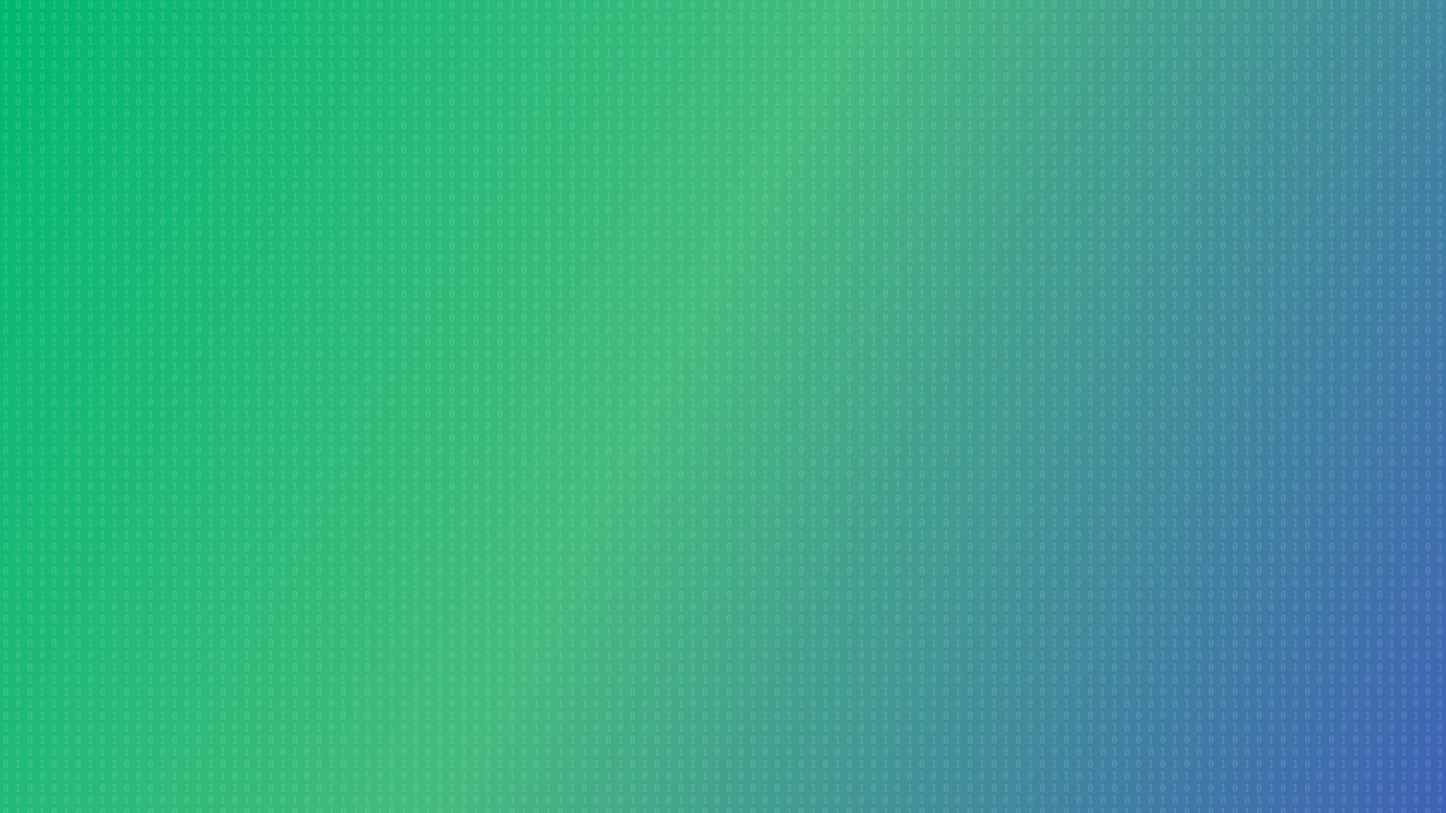
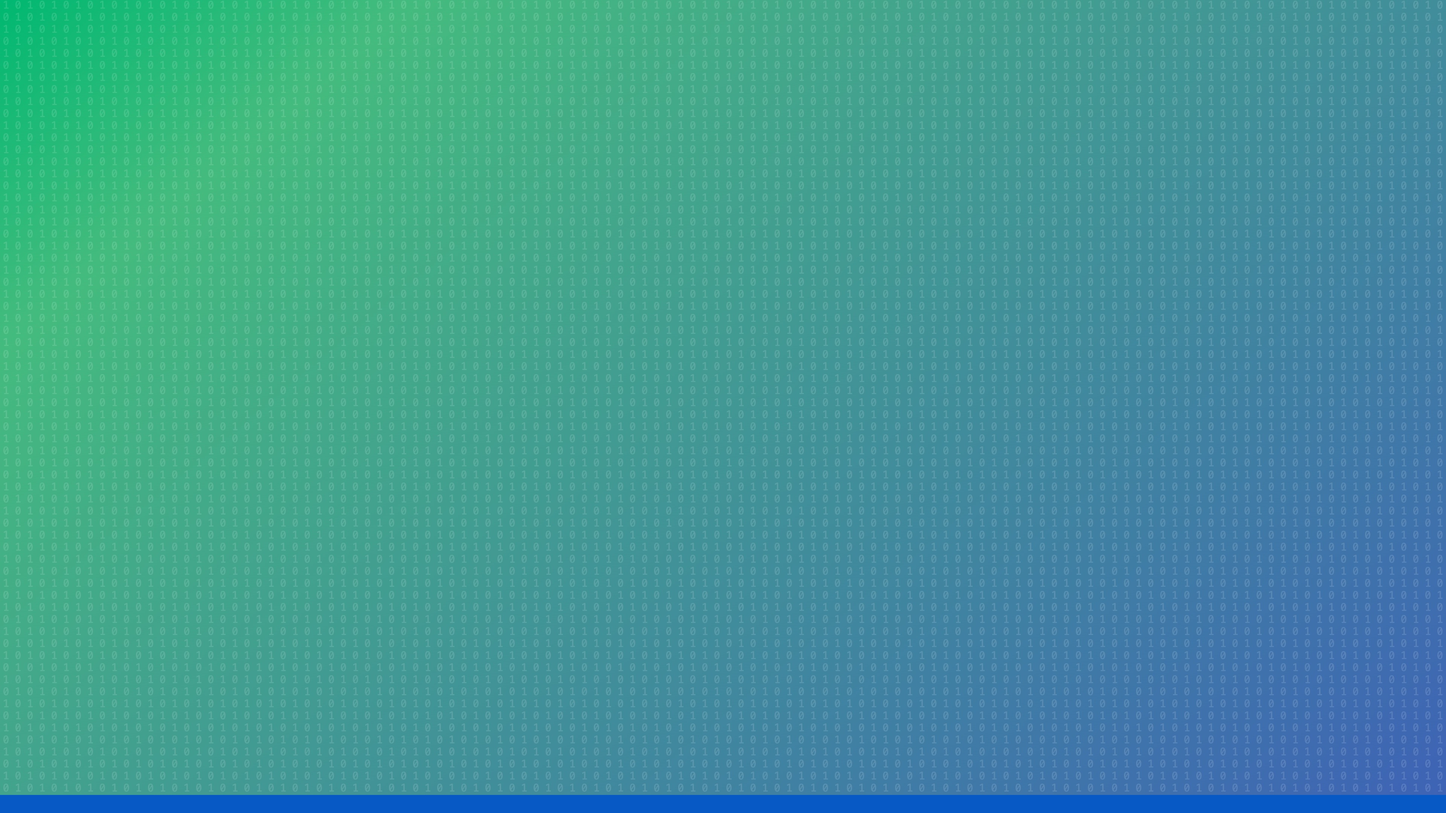
Every part places itself, and rm-stat can be dragged
The browser in the gallery hung off the left of the frame, and the cause is one
line that aged badly. It was positioned with style="left:16%; top:50%" — written
before rm-browser had x and y of its own. The part CENTRES on its point, so
left:16% put the centre of a window 68% wide at 16%, which puts most of it off
the edge. It uses x/y now, like rm-callout beside it, and lands centred.

rm-stat had no position at all. `::slotted(*) { position:absolute }` on the stage
means a part that does not place itself lands in the top-left corner, so the
gallery moved both of them by hand too. That also silently cost the Scenes panel
its sliders: those are generated from `static fields`, so a part that does not
declare x and y cannot be dragged, only hand-edited in markup — which is the
"stats need position sliders" report. Declaring them is what produces the
sliders; there was nothing to add in the panel.

The gallery's signatures were advertising attributes that no longer exist —
rm-browser still listed `image` and `src`, removed when the URL became the one
field that both names the site and loads it.

And a trap worth a permanent guard. These components render as one big template
literal, so a backtick inside a CSS comment CLOSES the string and everything
after it parses as code. I did it while writing rm-stat's centring comment, and
the symptom lands nowhere near the cause: "TYPETIMINGxy.anim is not a function"
[…]

diff --git a/lib/studio.html b/lib/studio.html
@@ -136,15 +136,8 @@
          the page is seeked to that instant, which is exactly what the renderer does
          frame by frame.
       </p>
-      <div class="note" data-region="main">
-         Animation is <em>seeked, not played</em>: every component is a paused CSS
-         animation positioned by one <code>--t</code> property, so frame N is
-         identical on every render. Copy <code>components/scene.html</code> to start
-         a new one.
-      </div>
       <div data-region="main">
-         <iframe data-el="gallery" class="tall-frame" src="/components/gallery.html"
-                 title="Component gallery"></iframe>
+         <iframe data-el="gallery" class="tall-frame" src="/components/gallery.html" title="Component gallery"></iframe>
          <pre class="cmd-note">node components/render-scene.mjs components/scene.html -o demo.mp4 --fps 30</pre>
       </div>
       <div data-region="footer">
@@ -235,14 +228,14 @@
          <div class="form-group">
             <label class="form-label" for="script-about">About</label>
             <textarea data-el="about" id="script-about" class="form-control" rows="3"
-                      placeholder="A URL, or a couple of sentences about what the video is for and who is watching."></textarea>
+               placeholder="A URL, or a couple of sentences about what the video is for and who is watching."></textarea>
             <div class="form-hint">The brief Claude drafts from. Type / for a directive.</div>
          </div>
 
          <div class="form-group">
             <label class="form-label" for="script-body">Script</label>
             <textarea data-el="body" id="script-body" class="form-control script-body" spellcheck="false"
-                      placeholder="Write the script…"></textarea>
+               placeholder="Write the script…"></textarea>
             <div data-el="count" class="form-hint"></div>
          </div>
 
@@ -273,8 +266,8 @@
          </div>
          <div class="form-group">
             <label class="form-label" for="script-seconds">Seconds</label>
-            <input data-el="seconds" id="script-seconds" class="form-control" type="number"
-                   value="30" min="10" max="180" step="5" />
+            <input data-el="seconds" id="script-seconds" class="form-control" type="number" value="30" min="10" max="180"
+               step="5" />
             <div class="form-hint">How long the draft should run. Drafting only.</div>
          </div>
 
@@ -300,7 +293,7 @@
          <iframe data-el="frame" class="scene-frame" title="Scene preview"></iframe>
          <div class="row">
             <input data-el="scrub" class="form-control" type="range" min="0" max="8000" step="16" value="0"
-                   aria-label="Scrub the scene" />
+               aria-label="Scrub the scene" />
             <span data-el="time" class="path">0 ms</span>
          </div>
          <div data-el="palette" class="row">
@@ -345,7 +338,7 @@
          <div class="form-group">
             <label class="form-label" for="scene-brief">Ask Claude for one</label>
             <textarea data-el="brief" id="scene-brief" class="form-control" rows="3"
-                      placeholder="What is this scene? One or two sentences."></textarea>
+               placeholder="What is this scene? One or two sentences."></textarea>
          </div>
       </div>
 

diff --git a/components/gallery.html b/components/gallery.html
@@ -152,15 +152,18 @@
 
   <section>
     <h2>rm-browser</h2>
-    <div class="sig">url · image · src · w · at · for</div>
+    <div class="sig">url · x · y · w · at · for</div>
     <div class="frame">
       <rm-scene wallpaper="../brand/wallpapers/lcad-board">
-        <rm-browser at="200" style="left:16%; top:50%; transform:translateY(-50%)" w="68"
+        <!-- x/y, not an inline style. `left:16%` put the window's CENTRE at 16%,
+             and at 68% wide that hung most of it off the left of the frame — the
+             inline positioning predates the part having x and y of its own. -->
+        <rm-browser at="200" x="50" y="50" w="68"
           url="app.rolemodelsoftware.com/estimates"></rm-browser>
         <rm-callout at="1200" x="66" y="42" text="Live pricing"></rm-callout>
       </rm-scene>
     </div>
-    <pre>&lt;rm-browser at="200" w="68" url="app.rolemodelsoftware.com" image="shot.png"&gt;&lt;/rm-browser&gt;</pre>
+    <pre>&lt;rm-browser at="200" x="50" y="50" w="68" url="app.rolemodelsoftware.com"&gt;&lt;/rm-browser&gt;</pre>
   </section>
 
   <section>
@@ -176,14 +179,14 @@
 
   <section>
     <h2>rm-stat</h2>
-    <div class="sig">value · unit · label · count</div>
+    <div class="sig">value · unit · label · count · x · y · at · for</div>
     <div class="frame">
       <rm-scene wallpaper="../brand/wallpapers/rm-dark-dotgrid">
-        <rm-stat at="300" style="left:12%; top:34%" value="94" unit="%" label="Faster to first estimate" count></rm-stat>
-        <rm-stat at="800" style="left:52%; top:34%" value="12" unit="k" label="Line items priced" count></rm-stat>
+        <rm-stat at="300" x="27" y="45" value="94" unit="%" label="Faster to first estimate" count></rm-stat>
+        <rm-stat at="800" x="73" y="45" value="12" unit="k" label="Line items priced" count></rm-stat>
       </rm-scene>
     </div>
-    <pre>&lt;rm-stat at="300" value="94" unit="%" label="Faster to first estimate" count&gt;&lt;/rm-stat&gt;</pre>
+    <pre>&lt;rm-stat at="300" x="27" y="45" value="94" unit="%" label="Faster to first estimate" count&gt;&lt;/rm-stat&gt;</pre>
   </section>
 
   <section>

diff --git a/components/rm-video.js b/components/rm-video.js
@@ -511,15 +511,37 @@ define('rm-image', RMImage)
  * frame on every render.
  */
 class RMStat extends RMElement {
-  static fields = ['value', 'label', 'unit', 'count', 'at', 'for']
+  static fields = ['value', 'label', 'unit', 'count', 'x', 'y', 'at', 'for']
   render() {
+    /*
+     * Placed like every other part: a percentage of the stage, from its centre.
+     *
+     * It had no position at all, so `::slotted(*) { position:absolute }` from
+     * rm-scene left it wherever the default put it — the top-left corner — and
+     * the only way to move one was an inline `style="left:..;top:.."` on the tag.
+     * That is why the gallery positions two of these by hand, and why the Scenes
+     * panel offered no sliders for them: the sliders are generated from `static
+     * fields`, so a part that does not declare x and y cannot be dragged.
+     */
+    const x = Number(this.attr('x', 50))
+    const y = Number(this.attr('y', 50))
     const value = this.attr('value', '0')
     const n = Number(String(value).replace(/[^0-9.-]/g, ''))
     const counting = this.hasAttribute('count') && Number.isFinite(n)
     this.shadowRoot.innerHTML = `
       <style>
         ${TYPE}${TIMING}
-        :host { display:block; --rise:16px; }
+        :host { display:block; position:absolute; left:${x}%; top:${y}%; --rise:16px; }
+        /*
+         * Centred on its own point, so 50/50 is the middle of the stage.
+         *
+         * Written on .anim with the entrance transform carried along, exactly as
+         * rm-browser does: a bare translate(-50%,-50%) would be a later rule of
+         * equal specificity and would silently replace the rise, leaving the part
+         * centred and dead.
+         */
+        .anim { transform: translate(-50%, calc(-50% + var(--rm-in-y) + var(--rm-out-y))) scale(var(--rm-in-s));
+                text-align:center; }
         @property --n { syntax:"<integer>"; initial-value:0; inherits:false; }
         .v { font-size:6cqw; font-weight:800; letter-spacing:-.04em; line-height:1; color:var(--brand-text); }
         ${
